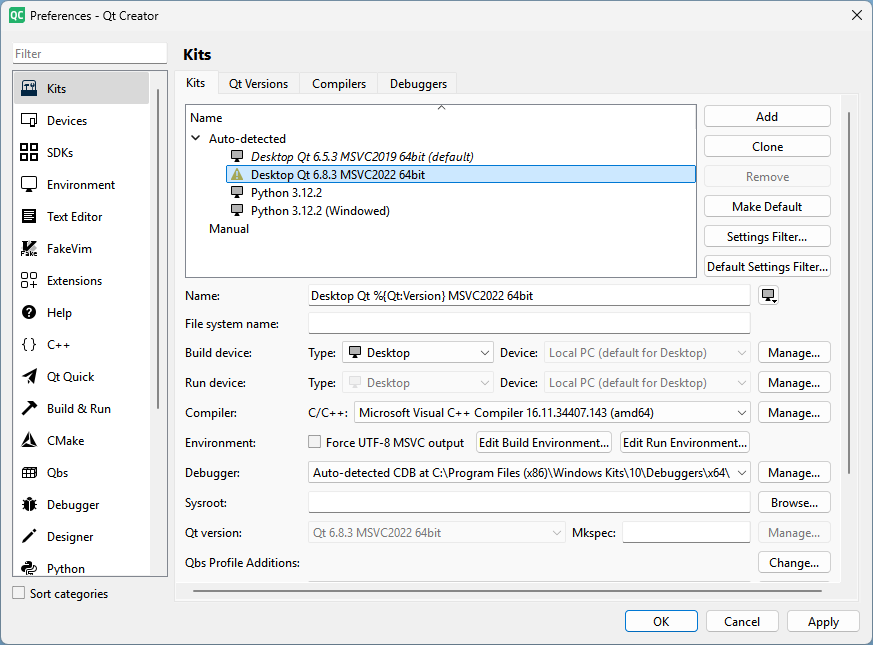
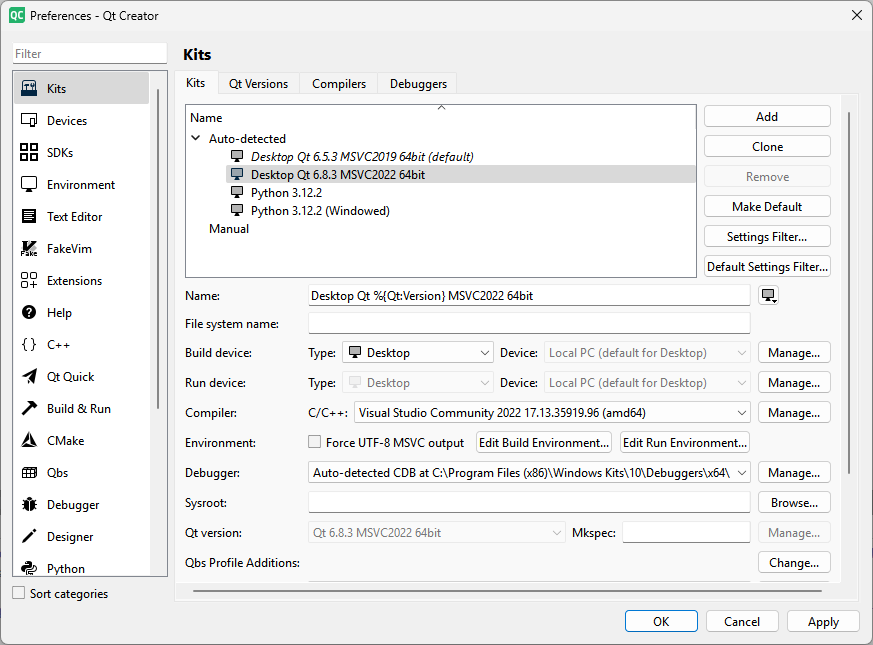
more updates to QT build instructions (#562)

diff --git a/SerialPrograms/BuildInstructions/Build-Windows-Qt6.8.3.md b/SerialPrograms/BuildInstructions/Build-Windows-Qt6.8.3.md
@@ -98,8 +98,9 @@ If you have already have older versions of Qt installed, but need to upgrade Qt 
 - Under `Kits` tab, choose the newer Qt version (e.g. Desktop Qt 6.8.3)
 <img src="images/QT-kits.png">
 
-- Under `Compiler`, set it to Microsoft Visual C++ Compiler, if not already set.
-- Click `Ok`.
+- Under `Compiler`, set it to Microsoft Visual C++ Compiler or Visual Studio, if not already set.
+    - If you recently installed new compilers, go to the `Compilers` tab, click `Re-dedect`, then click `Apply` in the bottom right. Back in the `Kits` tab, your newly installed compilers should now show up in the list of compilers.
+- Click `Ok`, to save Kits preferences.
 - Click the Monitor symbol at the bottom left
 <img src="images/QT-kit-build.png">
 
